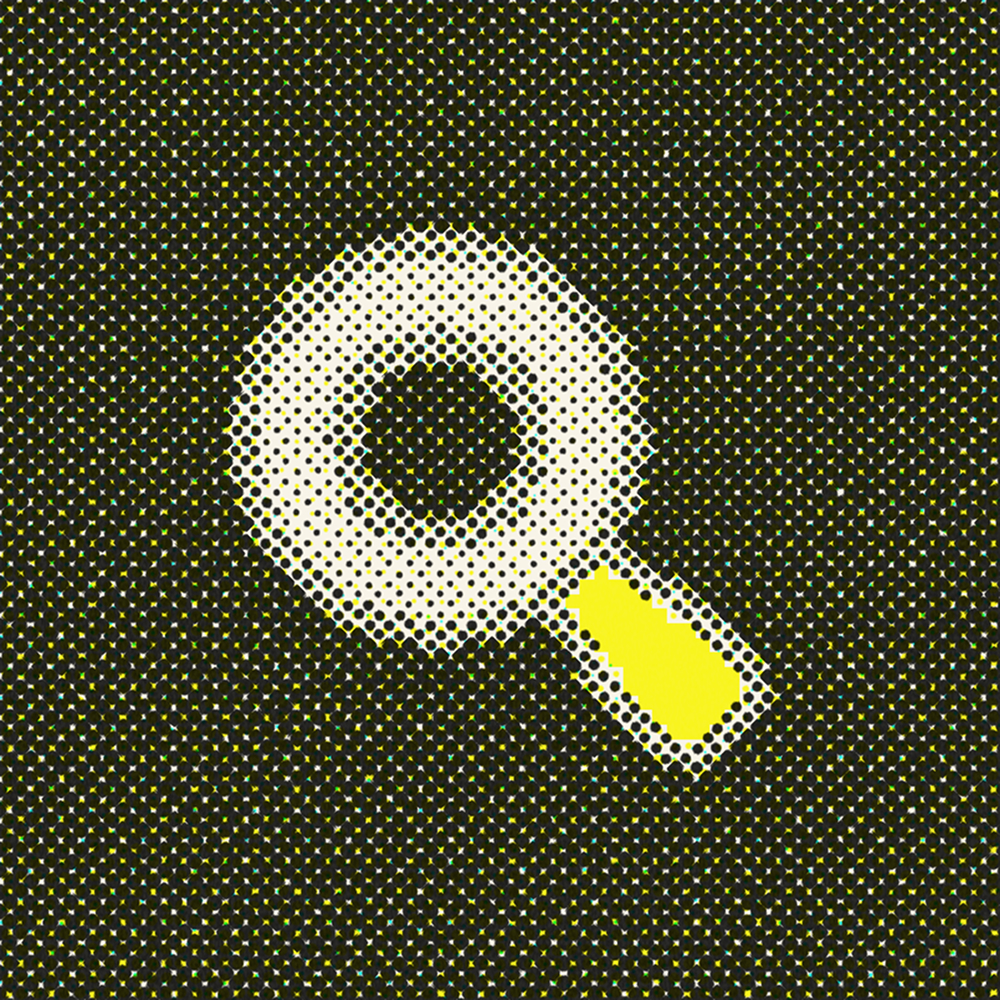
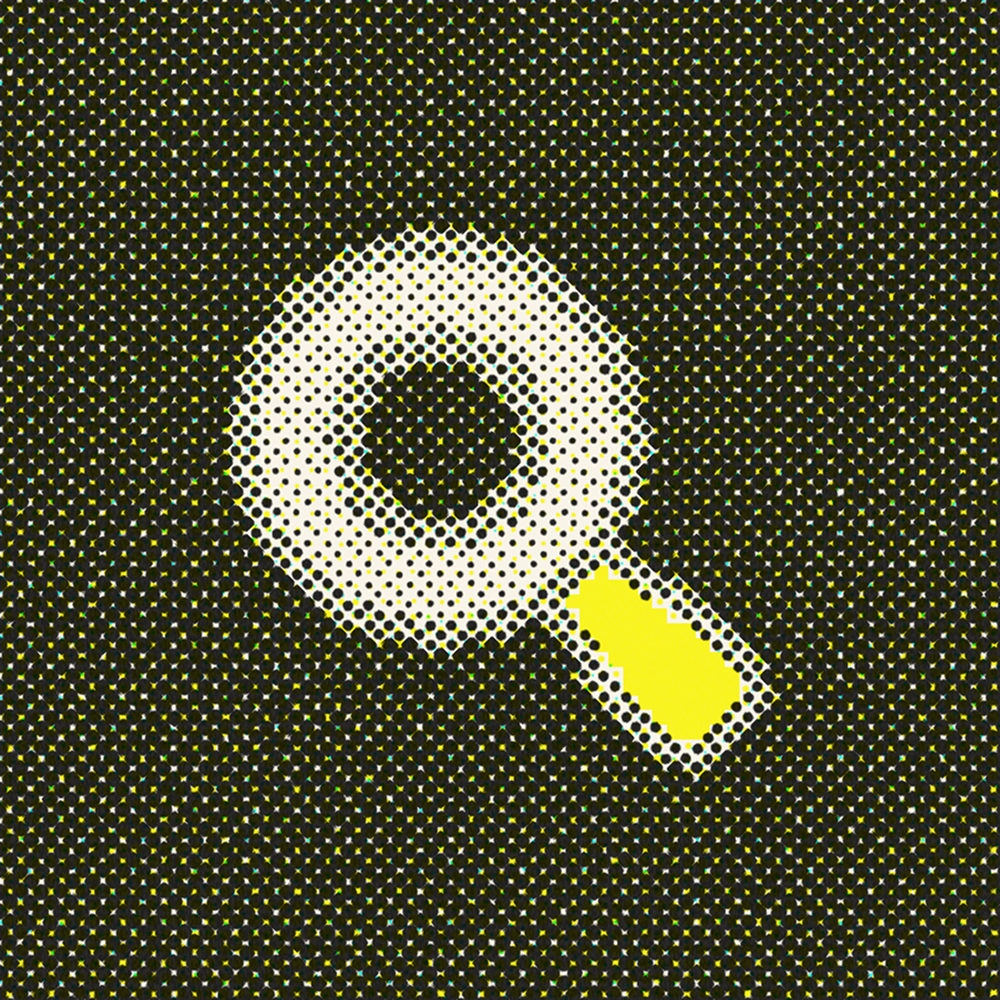
Stop shipping 7.5MB of artwork to draw a 400px circle
The loading screen was doing its job and the wait was still long, so I
timed a cold load of the live site: the canvas layer was still assembling
a minute in, and the page had been uncovered forty seconds before that by
the backstop.

Five JPEGs were most of it. post-1 was 2.2MB, post-4 and indie-tracker
1.8MB each, all of them 1000x1000 masters at a quality no photograph
needs, and every one is drawn into a 400x400 blob and shown in a circle
155 across. Re-encoded at 82: 7.57MB down to 1.78MB, and measured against
the originals the difference is an RMS of about 2 out of 255 — nothing
the eye has to look for. The pictures keep their full resolution.

Everything the page asks for is now 2.65MB rather than 8.45MB.

The webp artwork is left alone. Re-encoding those did save 700KB, but
measured the same way it cost an RMS above 20 at any quality, which is
visible, and they are already small enough not to matter.

The backstop goes to thirty seconds. It exists for a stalled asset, not
as a schedule, and firing early is what put a half-built page on screen.

diff --git a/app.js b/app.js
@@ -3193,9 +3193,10 @@ measureFeed();
 // asset must not leave a visitor looking at a flat field forever. It is a
 // backstop and not a schedule: the screen says the site is downloading and
 // asks for patience, so cutting it short at the old six seconds was the very
-// thing being complained about. A whole library of artwork and the first
-// track do not arrive in six seconds on anything but a warm cache.
-const PRELOADER_MAX_MS = 20000;
+// thing being complained about. Measured on a cold load of the live site, the
+// canvas layer alone was still assembling a minute in, and the page had been
+// uncovered forty seconds before that.
+const PRELOADER_MAX_MS = 30000;
 
 // Everything that would otherwise arrive in view, one piece after another:
 // the fonts the whole page is set in, the canvas layer's own boot (the blob

diff --git a/index.html b/index.html
@@ -179,6 +179,6 @@
     <script src="./feed-data.js?v=22"></script>
     <script src="./music-data.js?v=25"></script>
     <script src="./field.js?v=63"></script>
-    <script src="./app.js?v=89"></script>
+    <script src="./app.js?v=90"></script>
   </body>
 </html>
